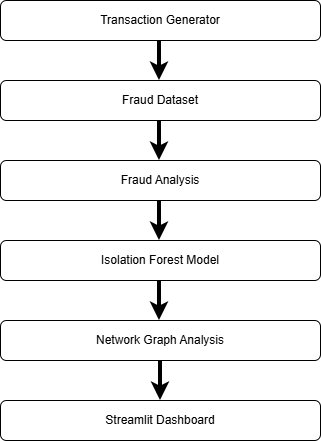
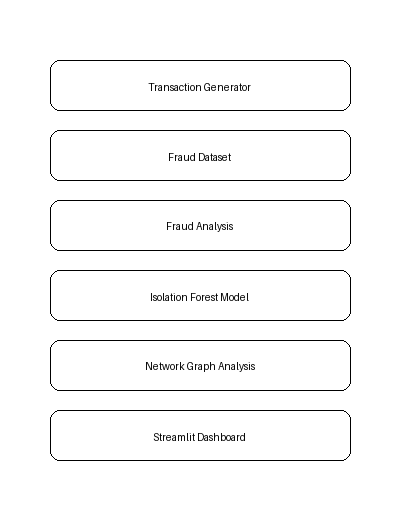
README Update

diff --git a/README.md b/README.md
@@ -10,6 +10,12 @@
 
 ---
 
+## 🌐 Live Demo
+
+**Dashboard:** [https://your-dashboard.streamlit.app](https://your-dashboard.streamlit.app)
+
+---
+
 ## What This Project Does
 
 UPI fraud rarely announces itself. It hides in timing, in transaction volume, in networks of accounts that seem unrelated until you map them.
@@ -86,8 +92,6 @@ This reveals:
 
 ## Dashboard
 
-![Dashboard](images/dashboard_demo.gif)
-
 Built with **Streamlit**, the dashboard presents:
 
 - Total transaction volume and fraud rate
@@ -116,7 +120,7 @@ Synthetic dataset of **50,000 UPI transactions**, generated to reflect real-worl
 
 ```bash
 # Clone the repository
-git clone https://github.com/yourusername/upi-fraud-intelligence-system.git
+git clone https://github.com/gupta-aanshi/upi-fraud-intelligence-system.git
 cd upi-fraud-intelligence-system
 
 # Install dependencies
@@ -164,9 +168,5 @@ MIT License — see [LICENSE](LICENSE) for details.
 
 ## Author
 
-**Aanshi Gupta** 
-[GitHub](https://github.com/aanshigupta)
-
----
-
-> *Built to understand how fraud hides — and how data can find it.*
+**Aanshi Gupta**  
+[GitHub](https://github.com/gupta-aanshi)